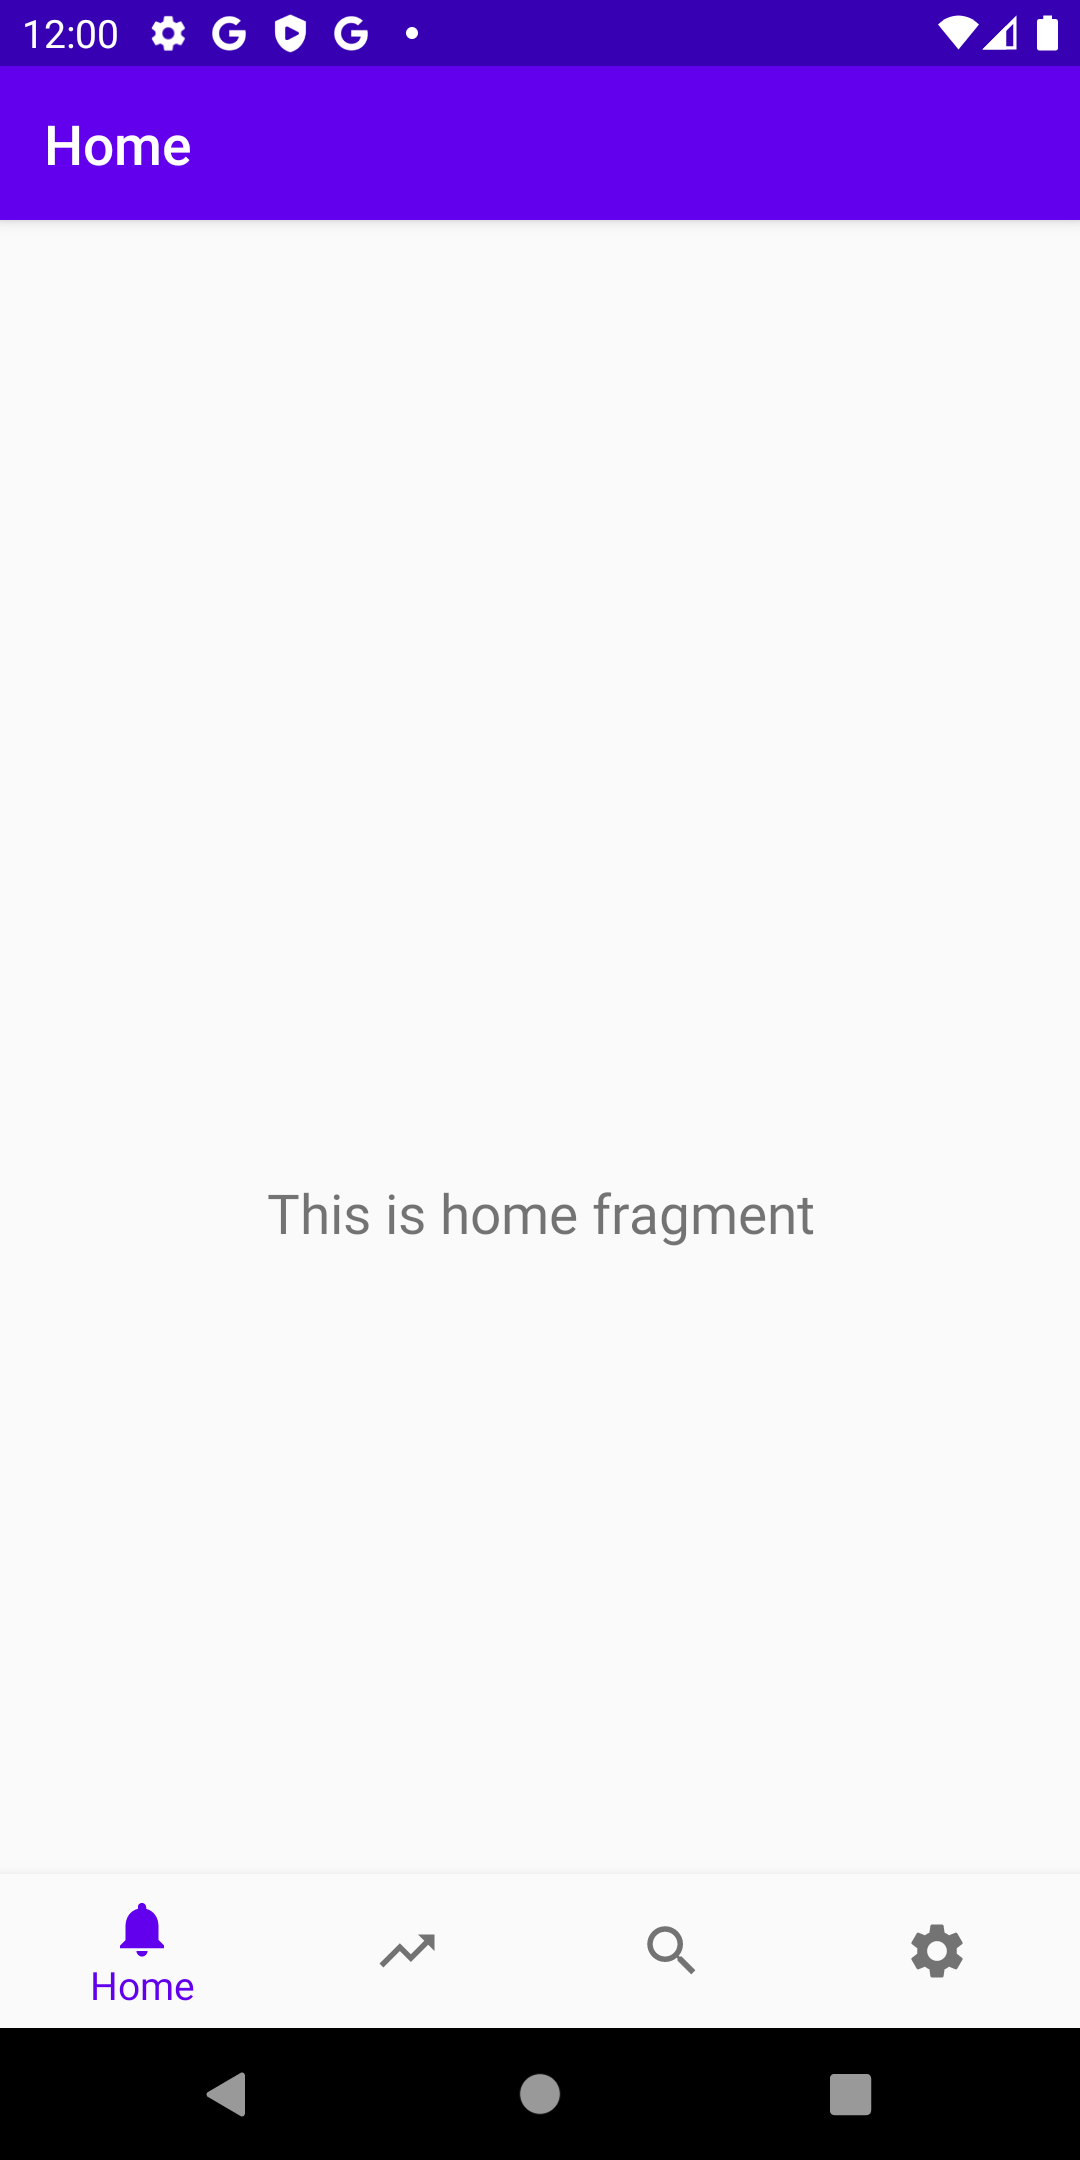
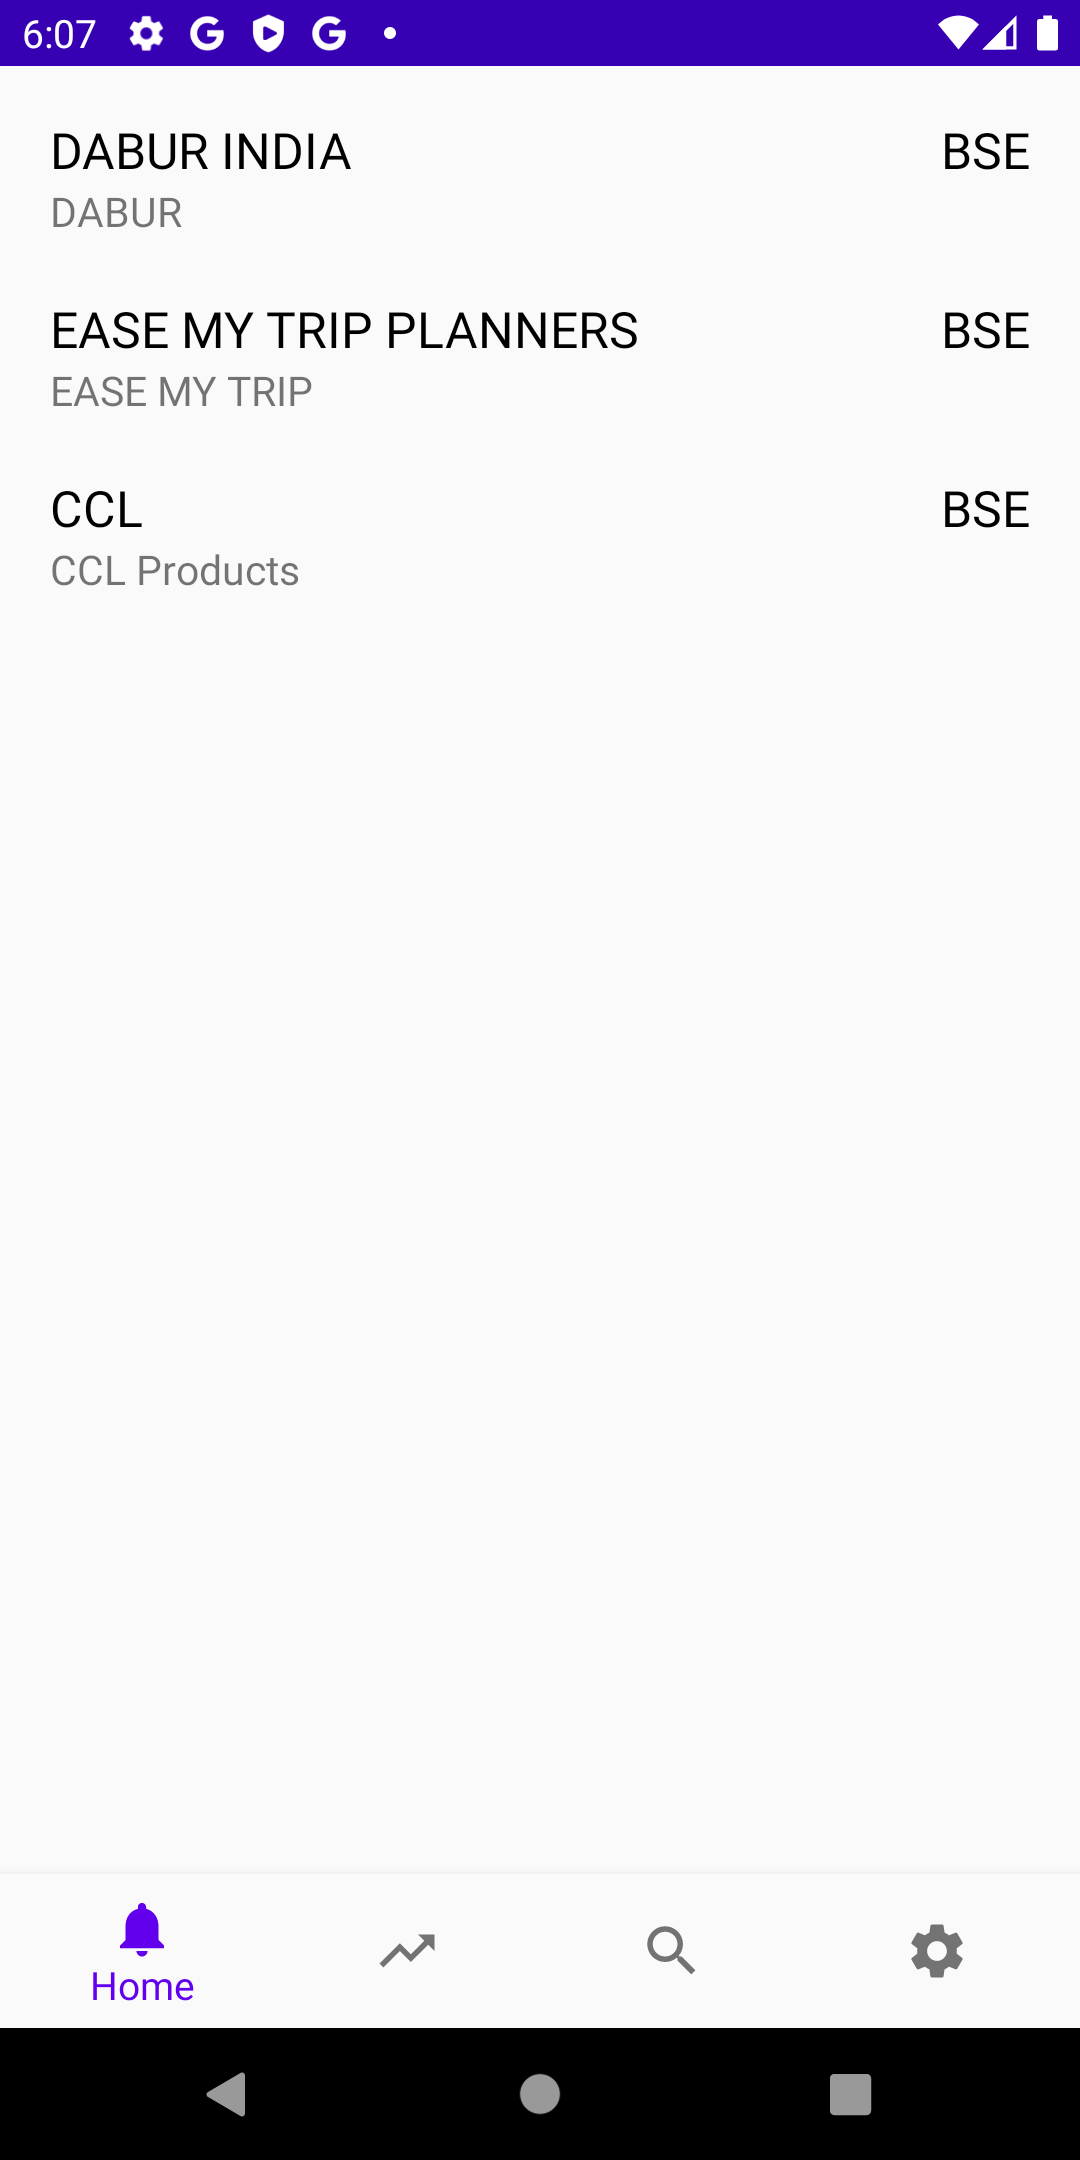
Adding screenshot for home, trending
Adding screenshot for home, trending

diff --git a/Stockify/app/src/main/java/com/aas/stockify/HomeActivity.java b/Stockify/app/src/main/java/com/aas/stockify/HomeActivity.java
@@ -4,6 +4,7 @@ import android.os.Bundle;
 
 import com.google.android.material.bottomnavigation.BottomNavigationView;
 
+import androidx.appcompat.app.ActionBar;
 import androidx.appcompat.app.AppCompatActivity;
 import androidx.navigation.NavController;
 import androidx.navigation.Navigation;
@@ -32,6 +33,11 @@ public class HomeActivity extends AppCompatActivity {
         NavController navController = Navigation.findNavController(this, R.id.nav_host_fragment_activity_home);
         NavigationUI.setupActionBarWithNavController(this, navController, appBarConfiguration);
         NavigationUI.setupWithNavController(binding.navView, navController);
+
+        ActionBar actionBar = getSupportActionBar();
+        if (actionBar != null) {
+            actionBar.hide();
+        }
     }
 
 }

diff --git a/Stockify/app/src/main/java/com/aas/stockify/ui/home/HomeFragment.java b/Stockify/app/src/main/java/com/aas/stockify/ui/home/HomeFragment.java
@@ -74,7 +74,7 @@ public class HomeFragment extends Fragment {
         Log.d(TAG, "Preparing Home RecyclerView");
         binding.stocks.setLayoutManager(new LinearLayoutManager(getContext()));
         // TODO point to user level stocks only
-        Query query = FirebaseFirestore.getInstance().collection("intruments");
+        Query query = FirebaseFirestore.getInstance().collection("test-trending");
         FirestoreRecyclerOptions<Stock> options = new FirestoreRecyclerOptions.Builder<Stock>()
                 .setQuery(query, AdapterUtil.getParser())
                 .build();

diff --git a/Stockify/app/src/main/java/com/aas/stockify/ui/trending/TrendingFragment.java b/Stockify/app/src/main/java/com/aas/stockify/ui/trending/TrendingFragment.java
@@ -65,7 +65,7 @@ public class TrendingFragment extends Fragment {
         Log.d(TAG, "Preparing Trending RecyclerView");
         binding.trending.setLayoutManager(new LinearLayoutManager(getContext()));
         // TODO fix key name
-        Query query = FirebaseFirestore.getInstance().collection("intruments");
+        Query query = FirebaseFirestore.getInstance().collection("test-trending");
         FirestoreRecyclerOptions<Stock> options = new FirestoreRecyclerOptions.Builder<Stock>()
                 .setQuery(query, AdapterUtil.getParser())
                 .build();

diff --git a/Stockify/app/src/main/java/com/aas/stockify/ui/views/AdapterUtil.java b/Stockify/app/src/main/java/com/aas/stockify/ui/views/AdapterUtil.java
@@ -22,6 +22,7 @@ public class AdapterUtil {
             stock.setName(snapshot.getString("name"));
             stock.setSymbol(snapshot.getString("tradingsymbol"));
             stock.setPrice(snapshot.getDouble("last_price").floatValue());
+            stock.setExchange(snapshot.getString("exchange"));
             return stock;
         };
     }

diff --git a/README.md b/README.md
@@ -17,6 +17,11 @@ Stock Update Notifier
   <img width="500" height="1000" src="https://github.com/SwagatoMondal/Stockify-Android/blob/main/Screenshots/Home.png?raw=true">
 </p>
 
+## Trending
+<p align="center">
+  <img width="500" height="1000" src="https://github.com/SwagatoMondal/Stockify-Android/blob/main/Screenshots/Trending.png?raw=true">
+</p>
+
 ## Settings
 <p align="center">
   <img width="500" height="1000" src="https://github.com/SwagatoMondal/Stockify-Android/blob/main/Screenshots/Settings.png?raw=true">
